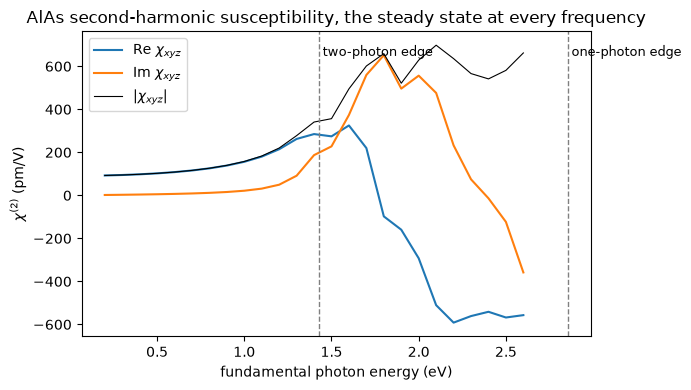
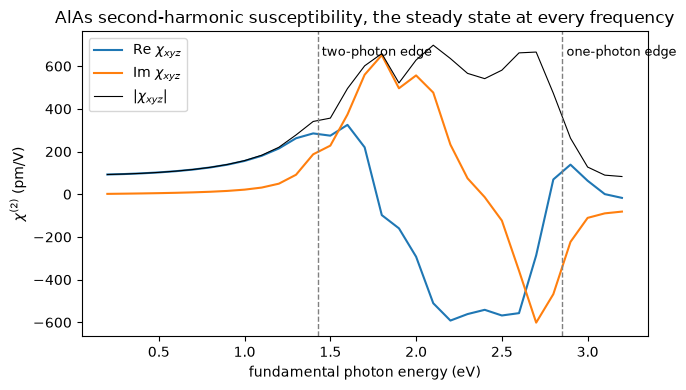
Widen notebook 51's axis past the one-photon edge
Claude-Session: https://claude.ai/code/session_01SovHGJqeejYZpThi9qbJUq

diff --git a/notebooks/51_nonlinear_spectra.md b/notebooks/51_nonlinear_spectra.md
@@ -33,7 +33,7 @@ from defumat import Calculator
 
 PSEUDO, CASES = Path("../tests/data/pseudo"), Path("../tests/data/qe")
 alas = Calculator.from_file(CASES / "alas-raman-wedge.in", PSEUDO, announce=False)
-EV = np.linspace(0.2, 2.6, 25)                          # the fundamental photon energy
+EV = np.linspace(0.2, 3.2, 31)                          # the fundamental photon energy
 FIELD = np.ones(3) / np.sqrt(3.0)                       # light polarized along [111]
 spectrum = alas.get_nonlinear_spectrum(EV, broadening=0.1, direction=tuple(FIELD), order=2)
 xyz = spectrum.chi2(axis=FIELD) * np.sqrt(3.0) / 2.0    # chi_xyz, the one element, pm/V
@@ -98,7 +98,7 @@ mesh = KPoints.automatic((4, 4, 4), (0, 0, 0), alas.system.cell)
 shg = alas.get_shg(kpoints=mesh, nbnd=60, frequencies=EV / RY_TO_EV, broadening=0.1 / RY_TO_EV)
 summed = -np.conj(np.asarray(shg.chi)[:, 0, 1, 2])
 print(f"{'eV':>5s} {'steady state':>20s} {'sum over states':>20s}")
-for i in range(1, 25, 3):
+for i in range(1, 31, 3):
     print(f"{EV[i]:5.1f} {xyz[i].real:10.1f}{xyz[i].imag:+9.1f}i {summed[i].real:10.1f}{summed[i].imag:+9.1f}i")
 ```
 
@@ -115,6 +115,8 @@ for i in range(1, 25, 3):
       1.8      -97.7   +651.6i      -87.7   +652.3i
       2.1     -510.5   +476.2i     -511.9   +486.3i
       2.4     -541.3    -13.7i     -543.0    -12.7i
+      2.7     -286.3   -601.3i     -284.9   -597.4i
+      3.0       63.2   -110.6i       60.2   -109.2i
 
 
 Below the edge the two agree to a few tenths of a per cent with sixty bands, and with 24 they

diff --git a/notebooks/README.md b/notebooks/README.md
@@ -294,7 +294,7 @@ order of magnitude it is rather than as current to the second.
 | `42` | 13 | `31` | 34 | `13` | 131 | `35` | 276 |
 | `16` | 18 | `40` | 34 | `30` | 232 | `20` | 282 |
 | `00` | 22 | `23` | 35 | `39` | 151 | `49` | 194 |
-| `07` | 22 | `32` | 84 | `41` | 110 | `51` | 281 |
+| `07` | 22 | `32` | 84 | `41` | 110 | `51` | 290 |
 | `46` | 61 | `47` | 260 | `48` | 121 | `50` | 509 |
 
 `32` and `33` read **84 s** and **401 s** on 2026-10-04, through
@@ -317,8 +317,8 @@ the notebook near or past the ceiling.
 upper bound and near the ceiling: the two propagations of two cycles it adds, one of them
 with the potential rebuilt at every step, are about a third of the eight-cycle pair. The
 eight-cycle spectrum with the potential updated is quoted from an offline run, since it
-alone would put the notebook past the ceiling. `51` reads **281 s** the same night, its first
-measurement, on four cores beside the same jobs: the AlAs spectrum at 25 frequencies, the
+alone would put the notebook past the ceiling. `51` reads **290 s** the same night, its first
+measurement, on four cores beside the same jobs: the AlAs spectrum at 31 frequencies, the
 sum over states at 60 bands and silicon at three frequencies; silicon's converged mesh is
 quoted from offline runs.
 
